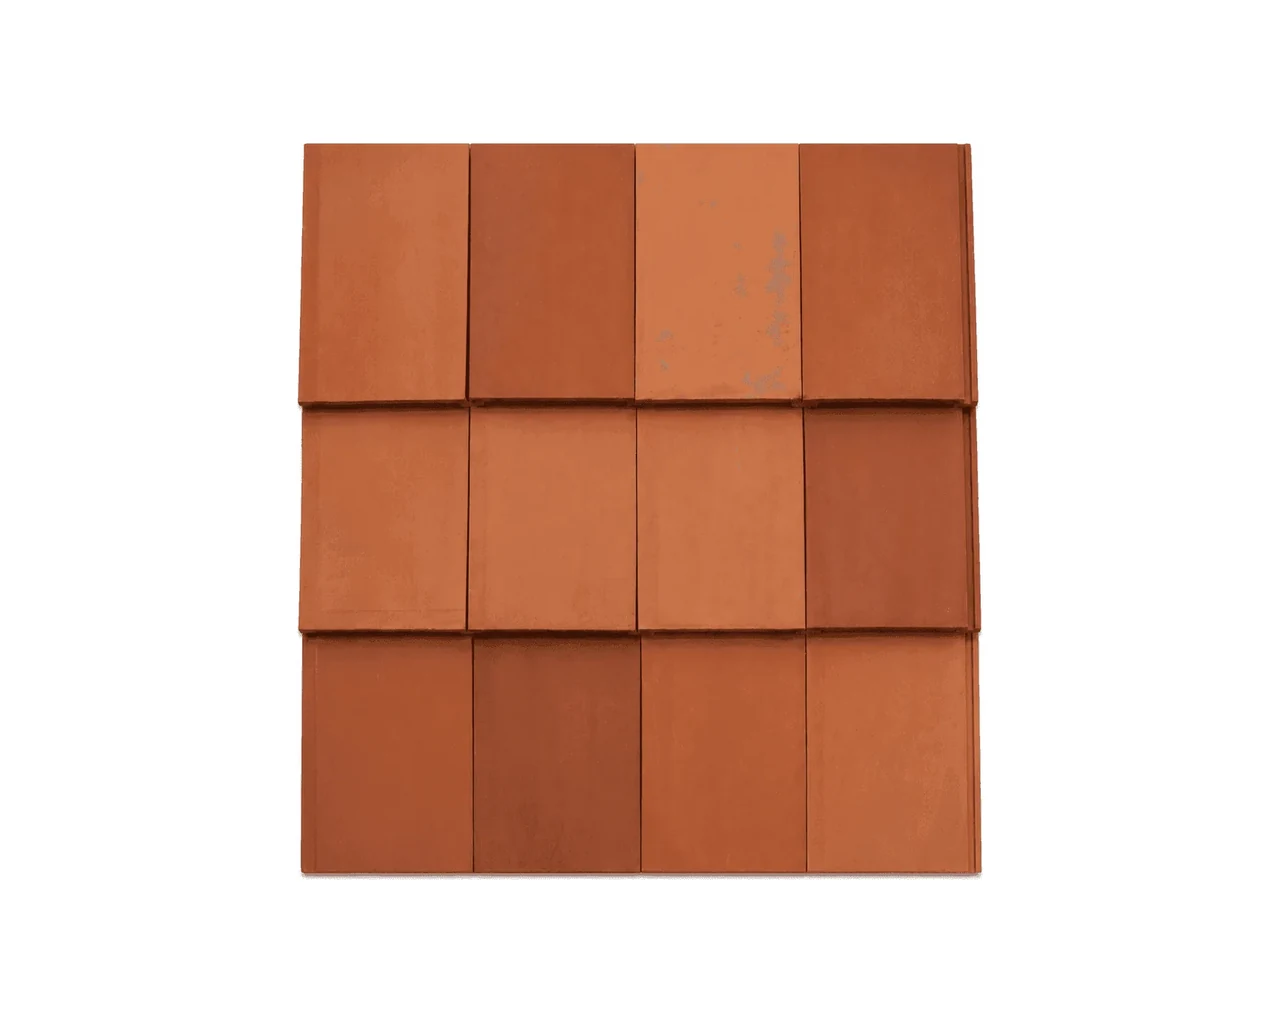
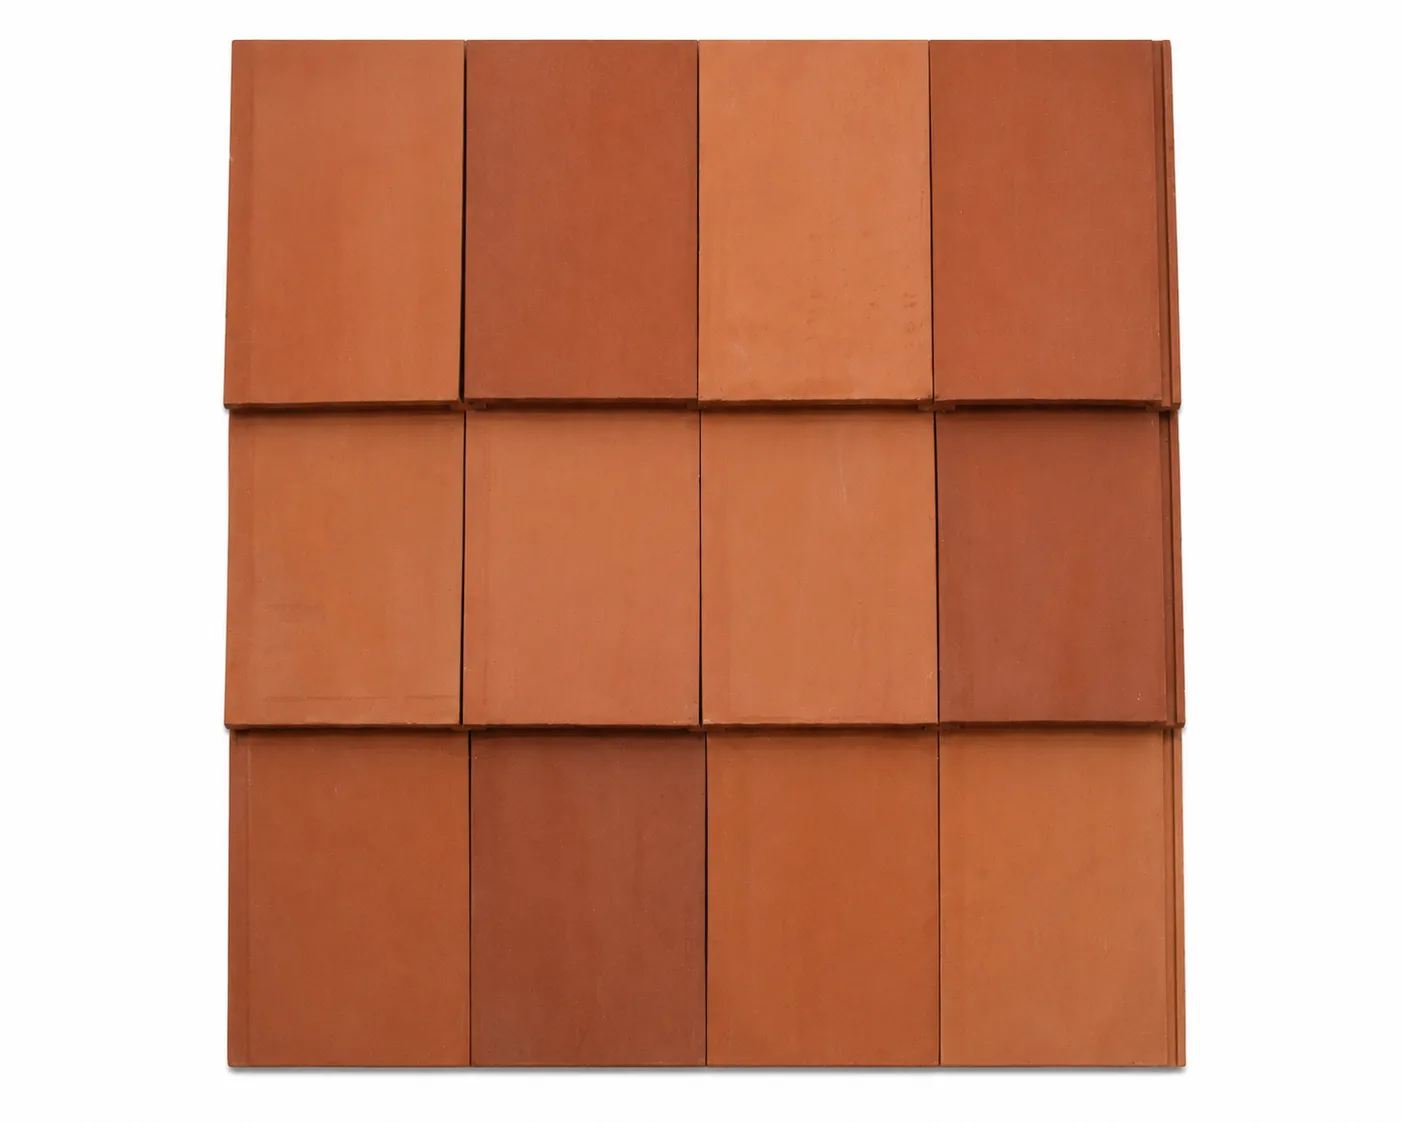
La Teja Plana estrena la foto que el ERP subió
Gerencia confirmó que la foto nueva del ERP es la buena. Es el flujo previsto: todo lo demás
del catálogo se sincroniza solo, pero las fotos pasan por el protocolo de marca y se bajan a
mano — por eso el feed trae la referencia y la ficha seguía sirviendo la del repositorio
hasta que alguien lo dijera.

Venía en PNG a 1402×1122 y 1,5 MB. Convertida a WebP con calidad 82 queda en 25 KB, sin
agrandar nada: el sitio genera variantes de hasta 1.200 px y la original ya da margen. Las
cuatro variantes se regeneraron solas y conservan la proporción.

La anterior era 1280×1024 y 21 KB; queda en el historial de git por si hiciera falta volver.

La encontró el diff del feed, que hasta esta mañana no se podía leer: el cambio venía
enterrado en 50 líneas de reordenamiento. Ordenar el feed sirvió para algo el mismo día.

diff --git a/docs/auditoria-2026-10.md b/docs/auditoria-2026-10.md
@@ -498,3 +498,39 @@ octubre. Sin seguimiento en git, 4,7 KB.
 **La Fase 9 no está desplegada.** Todo lo de arriba está verificado en local y, donde se
 podía, contra producción. Los números de rendimiento de la Fase 9 y el 96 de «prácticas
 recomendadas» conviene repetirlos en producción después de publicar.
+
+## 11. Perfil de Empresa de Google — ejecución del 22 de octubre
+
+Se auditó la ficha administrada de Clay House. Google la marca con información completa y
+se comprobó que nombre, categoría principal, descripción, teléfono, sitio web, dirección,
+áreas de servicio y horarios coinciden con los datos publicados en la web. No se marcaron
+atributos de accesibilidad, estacionamiento, pagos o instalaciones porque no había evidencia
+suficiente para responderlos sin inventar información.
+
+La galería pasó de **9 a 16 fotos**. Se cargaron siete imágenes reales de fabricación,
+operación, cubiertas y proyectos en ladrillo. Google confirmó la carga; algunas quedaron en
+revisión temporal con estado `PENDIENTE`.
+
+El perfil no tenía catálogo. En una primera carga se publicaron por error cuatro familias
+genéricas, con fotos de proyectos y sin precio. Esa carga se corrigió el mismo 22 de octubre:
+se eliminaron las cuatro fichas y el catálogo de Google quedó como réplica de las **18
+referencias activas** que mostraba `clayhouse.com.co/productos` en ese momento.
+
+La réplica usa el mismo nombre, la misma imagen principal, el mismo precio visible, la
+categoría de la web y el vínculo individual de cada referencia. Cuando la web dice «Desde»,
+Google recibe esa misma cifra mínima en su campo numérico y la condición «Desde» queda
+expresada en la descripción, porque su editor no admite el prefijo en el precio.
+
+- Fachadas: Ladrillo Romano ($2.450), Ladrillo Toscano ($2.250), Super Terras 11 Liso
+  (desde $2.690), Catalán Horizontal ($2.000), Ladrillo Cartagena ($2.700), Macizo Campesino
+  ($1.650), Macizo ($2.290), Bocadillo Prensado (desde $1.990) y Gran Formato Prensado
+  (desde $3.100).
+- Divisorios: Ladrillo Rayado Vertical (desde $2.390), Bloquelón ($4.350) y Ladrillo Rayado
+  Horizontal (desde $1.790).
+- Enchapes: Enchape Romano ($89.500/m²) y Enchape Thin Brick ($110.000/m²).
+- Techos: Teja Plana ($4.880), Teja Colonial ($1.600) y Teja S ($3.320).
+- Decorativos: Calado (desde $3.500).
+
+La verificación final del administrador mostró las 18 referencias y sus 18 precios. Google
+advierte que una publicación puede tardar hasta 30 minutos en hacerse visible; al cerrar la
+sesión Calado, Teja S y Teja Colonial seguían con estado temporal `PENDIENTE`.
